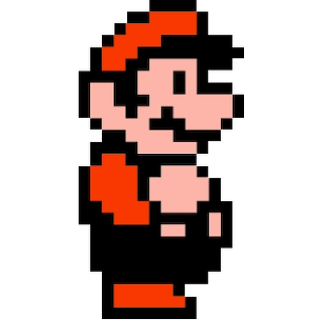
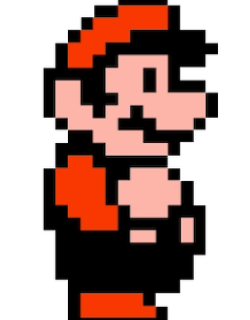
Mario can jump and move  concurrently and mushroom makes mario bigger when in contact

Changed region(s): [[0.168, 0.0, 0.896, 1.0], [0.448, 0.375, 0.476, 0.4062]]

diff --git a/src/Mario.java b/src/Mario.java
@@ -9,6 +9,14 @@ public class Mario extends GImage {
 	private Image smallMarioImage;
 	private Image bigMarioImage;
 	private GCanvas canvas;
+	private boolean bigOrSmall = false;//true if mario is big
+	private boolean isJumping = false;//need to keep track of if mario is jumping or not
+	//if he is already jumping and if the user tries to make mario jump he should not
+	
+	public boolean movingRight = false;
+	public boolean movingLeft = false;
+	//need this bools to support concurrency for jumping and moving right/left at the same time
+	//movingRight, movingLeft are true if right,left key are pressed down respectively
 	public Mario(Image smallMarioImage, Image bigMarioImage, GCanvas canvas) {
 		super(smallMarioImage);
 		this.smallMarioImage = smallMarioImage;
@@ -18,40 +26,164 @@ public class Mario extends GImage {
 	}
 
 	public void makeBig() {
+		double relativeY = this.getY()+ this.getHeight();
+		//need line above because big mario and small mario dont have the same height
+		//and so need to shift vertically Mario when going from small to big or vice versa
+		double smallWidth = this.getWidth();//returns width of smallMario (needed for horizontal shift)
 		this.setImage(bigMarioImage);
+		//now this.getHeight returns height of big mario != height of small mario
+		
+		//X shift needed to keep big mario and small mario centered since their
+		//widths can differ
+		double xShift = (this.getWidth()-smallWidth)/2;
+		this.setLocation(getX()-xShift, relativeY-this.getHeight());	
+		bigOrSmall = true;
 	}
 
 	public void makeSmall() {
+		double relativeY = this.getY()+ this.getHeight();
+		//need line above because big mario and small mario dont have the same height
+		//and so need to shift vertically Mario when going from small to big or vice versa
+		double bigWidth = this.getWidth();//returns width of bigMario (needed for horizontal shift)
 		this.setImage(smallMarioImage);
+		//now this.getHeight returns height of small mario != height of big mario
+		
+		//X shift needed to keep big mario and small mario centered since their
+		//widths can differ
+		double xShift = (bigWidth-this.getWidth())/2;
+		this.setLocation(getX()+xShift, relativeY-this.getHeight());
+		bigOrSmall = false;
 	}
 
 	public void jump() {
-		System.out.println("JUMP not implemented");
-		//TODO MORE COMPLICATED MIGHT NEED TO DO THIS IN ANOTHER THREAD
+		//System.out.println("JUMP not implemented");
+		//MORE COMPLICATED NEED TO DO THIS IN ANOTHER THREAD
+		//so mario can jump and go left/right concurrently
+		Thread t1 = new Thread(new Runnable() {
+		    @Override
+		    public void run() {
+		       //code in here runs in another thread since mario can go right or left while jumping
+		    	//has to be done concurrently
+		    	/*
+		    	 * TODO
+		    	 * NEED TO CHECK WHETHER MARIO IS JUMPING ON A MUSHROOM OR TURTLE ETC
+		    	 */
+		    	if (isJumping) {
+		    		return;
+		    	}
+		    	isJumping = true;
+		    	for (int i=0; i<25; i++) {
+		    		move(0, -10);
+		    		try {
+						Thread.sleep(20);
+					} catch (InterruptedException e) {
+						// TODO Auto-generated catch block
+						e.printStackTrace();
+					}
+		    	}
+		    	for (int i=0; i<25; i++) {
+		    		move(0, 10);
+		    		try {
+						Thread.sleep(20);
+					} catch (InterruptedException e) {
+						// TODO Auto-generated catch block
+						e.printStackTrace();
+					}
+		    	}
+		    	isJumping = false;
+		    	
+		    }
+		});  
+		t1.start();
+		//System.out.println("ENd of jump method");
 	}
+	
+	
 
-	public void move(double dx, double dy) {
-		double newX = 0;
-		if (dx < 0) {
-			newX = getX()-dx;
+	public void move(boolean rightOrLeft) {
+		//rightOrLeft is true for moving right and false for moving left
+		//this function is used to move mario right and left using the right and left arrows
+		//runs on different thread so mario can jump and move right/left concurrently
+		boolean b = false;
+		if (rightOrLeft) {
+			movingRight = true;
+			b = true;
 		} else {
-			newX = getX()+getWidth()+dx;
+			movingLeft = true;
 		}
-		GObject a = canvas.getElementAt(newX, getY()+getHeight()-10); 
-		if (a!=null) {
-			System.out.println("NOT NULL");
-			if (a instanceof Mushroom) {
-				canvas.remove(a);
-				makeBig();
+		System.out.println("GOT HEREERE");
+		final boolean c = b;
+		Thread t1 = new Thread(new Runnable() {
+		    @Override
+		    public void run() {
+		    	if (c) {
+		    		while (movingRight) {
+						moveHelper(rightOrLeft);
+						//movingRight is set to false when right key is released
+					}
+		    	} else {
+		    		while (movingLeft) {
+						moveHelper(rightOrLeft);
+						//movingLeft is set to false when left key is released
+					}
+		    	}
+		    	
+		    }
+		});  
+		t1.start();
+		
+		
+		
+	}
+	public void moveHelper(boolean rightOrLeft) {
+		//this function moves mario right or left once, is repeatedly called to move mario continuously
+		double newX = 0;
+		double dx = rightOrLeft?10:-10.0;//arbitrary dx to move mario not too much
+		if (dx < 0) {
+			if (bigOrSmall) {
+				//need this because there is different amount of whitespace on
+				//both sides of big/small mario images
+				newX = getX()+80;
+			} else {
+				newX = getX()+45;
+			}
+			
+		} else {
+			if (bigOrSmall) {
+				//need this because there is different amount of whitespace on
+				//both sides of big/small mario images
+				newX = getX()+getWidth()-70;
+			} else {
+				newX = getX()+getWidth()-60;
 			}
 		}
-		super.move(dx, dy);
-		System.out.println("MOVING MARIO");
+		//wait until mushroom image has slightly entered
+		//small mario image to make mario big (since there is whitespace on both sides of mushroom/mario)
+		GObject a = canvas.getElementAt(newX, getY()+getHeight()-10); 
+		if (a!=null) {
+			//a is mario since we are checking if mushroom image has entered mario image enough
+			//to turn small mario into big mario
+			//need to remove mario and check if mushroom is there
+			canvas.remove(a);
+			GObject b = canvas.getElementAt(newX, getY()+getHeight()-10);
+			if (b instanceof Mushroom) {
+				canvas.remove(b);
+				makeBig();
+			}
+			canvas.add(a);
+
+		}
+		move(dx, 0);
+		//System.out.println("MOVING MARIO");
 		//TODO NEED TO CHECK IF MARIO JUMPS INTO
 		//MYSTERY BOX OR OUT OF BOUNDS
 		//if mario touches mushroom he becomes big
+		try {
+			Thread.sleep(20);
+		} catch (InterruptedException e) {
+			// TODO Auto-generated catch block
+			e.printStackTrace();
+		}
 	}
-
-
 
 }

diff --git a/src/MyKeyListener.java b/src/MyKeyListener.java
@@ -9,16 +9,32 @@ public class MyKeyListener implements KeyListener {
 	}
 	@Override
 	public void keyTyped(KeyEvent e) {
-		
+		int keyCode = e.getKeyCode();
+		System.out.println("KEY TYPPPPPPPED");
+		if (keyCode == KeyEvent.VK_UP) {
+			System.out.println("SHOULD JUMP HERE");
+		} 
+		System.out.println(mario.movingLeft+"     "+mario.movingRight);
+		System.out.println(mario.getX() + "       "+mario.getY());
+	
 	}
 
 	@Override
 	public void keyPressed(KeyEvent e) {
+	
 		int keyCode = e.getKeyCode();
 		if (keyCode == KeyEvent.VK_RIGHT) {
-			mario.move(10,  0);
+			if (mario.movingRight) {
+				return;
+			}
+			mario.move(true);
+			System.out.println("pressed move right");
 		} else if (keyCode == KeyEvent.VK_LEFT){
-			mario.move(-10, 0);	
+			if (mario.movingLeft) {
+				return;
+			}
+			mario.move(false);
+			System.out.println("pressed move left");
 		} else if (keyCode == KeyEvent.VK_UP) {
 			mario.jump();
 		} else if (keyCode == KeyEvent.VK_0) {
@@ -32,6 +48,15 @@ public class MyKeyListener implements KeyListener {
 	@Override
 	public void keyReleased(KeyEvent e) {
 		// TODO Auto-generated method stub
+		//System.out.println("Key released");
+		int keyCode = e.getKeyCode();
+		if (keyCode == KeyEvent.VK_RIGHT) {
+			System.out.println("released right");
+			mario.movingRight = false;
+		} else if (keyCode == KeyEvent.VK_LEFT){
+			System.out.println("released left");
+			mario.movingLeft = false;
+		}
 
 	}
 

diff --git a/src/MarioBrosGame.java b/src/MarioBrosGame.java
@@ -17,7 +17,8 @@ public class MarioBrosGame extends GraphicsProgram {
 	 * and select size 320x320 in Preview
 	 * 
 	 * NEED TO CHANGE MUHSROOM PICTURE AND GET CORRECT BOUNDS
-	 * 
+	 * small mario has width, height of (160, 160) in pixels
+	 * big mario has width, height of (250 × 320) in pixels
 	 * 
 	 */
 	
@@ -47,13 +48,15 @@ public class MarioBrosGame extends GraphicsProgram {
 		
 		Mario mario = new Mario(smallMarioImage, bigMarioImage, this.getGCanvas());
 		
-		add(mario, 10, getHeight()-mario.getHeight());//FOR NOW
-		
-		
+		add(mario, 120, getHeight()-mario.getHeight());//FOR NOW
+				
 		addKeyListeners(new MyKeyListener(mario));
 		Mushroom mushroom = new Mushroom(marioMushroomImage, this.getGCanvas());
-		
-		add(mushroom, 600, getHeight()-mushroom.getHeight()+40);
+		Mushroom mushroom2 = new Mushroom(marioMushroomImage, this.getGCanvas());
+		Mushroom mushroom3 = new Mushroom(marioMushroomImage, this.getGCanvas());
+		add(mushroom, 600, getHeight()-mushroom.getHeight());
+		add(mushroom2, 800, getHeight()-mushroom.getHeight());
+		add(mushroom3, 0, getHeight()-mushroom.getHeight());
 		System.out.println(getHeight()+"    "+mario.getY());	
 	}
 }

diff --git a/src/Level.java b/src/Level.java
@@ -9,5 +9,4 @@ public class Level {
 	public int getNumber() {
 		return number;
 	}
-
 }
